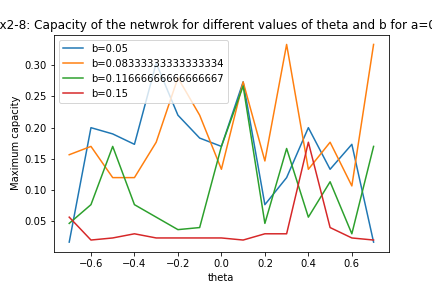
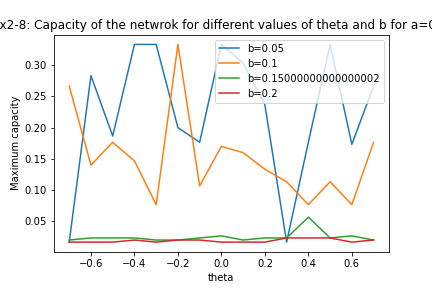
:()

Changed region(s): [[0.1204, 0.125, 0.9028, 0.8438], [0.3611, 0.75, 0.3912, 0.7812]]

diff --git a/Part2/Hop-Project-2.py b/Part2/Hop-Project-2.py
@@ -155,7 +155,7 @@ def ex2_7_2():
 
 def ex2_8():
     a = 0.1
-    b_list = np.linspace(0.05, 0.15, num=4)
+    b_list = np.linspace(0.05, 0.2, num=4)
     theta_list=np.linspace(-0.7, 0.7, num=15)
     capacity=np.zeros([len(b_list),len(theta_list)])
     
